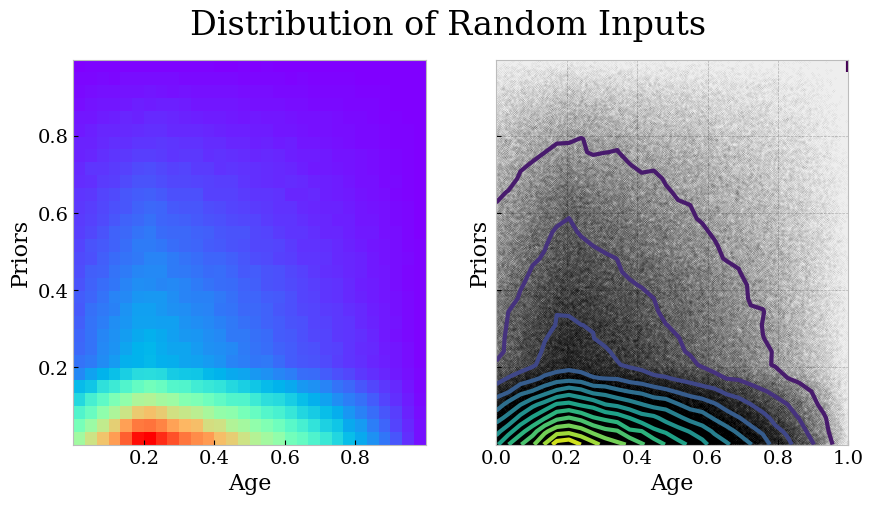
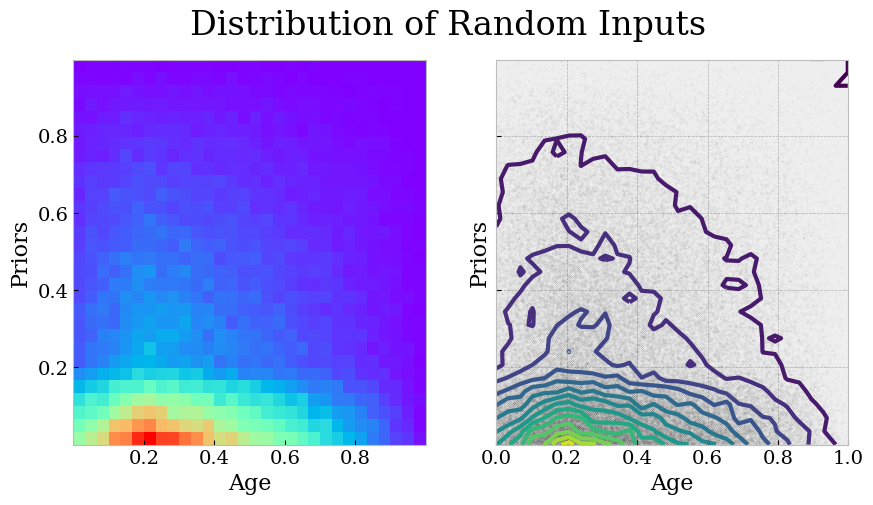
added basic instructions

diff --git a/fairness_random_plot.py b/fairness_random_plot.py
@@ -122,7 +122,8 @@ def make_linear_interpolation_func(pts):
 def main():
     """main entry point"""
 
-    num_samples = int(1e6)
+    num_samples = int(1e5)
+    print(f"sampling {num_samples} times...")
 
     init_plot()
     onnx_filename = "seed0.onnx"

diff --git a/README.md b/README.md
@@ -1,6 +1,18 @@
-# nn_fairness
-propagating distributions though neural networks
+# Neural Network Fairness Analysis
+Goal: Propagate input distributions though neural networks to prove fairness properties
 
-To run the code, first install requirements
 
-pip3 -r req
+To run the code, first install requirements:
+
+```
+pip3 install -r requirements.txt
+```
+
+You also want to install nnenum and put it on your `PYTHONPATH`: `https://github.com/stanleybak/nnenum`
+
+
+Here's an explantion of the main code files that should run:
+
+
+*  `python3 fairness_plot.py` - Run reachability analysis to split input into polytopes, and then integrate the probability distributions to get probabilities of outputs (output image: `Male_Seed_0.png`) 
+* `python 3 fairness_random_plot.py` - Sample the inputs distribution to get the expected result of exact analysis (output images: `rand_Male_Seed_0_outputs.png` and `rand_Male_Seed_0_inputs.png`)
